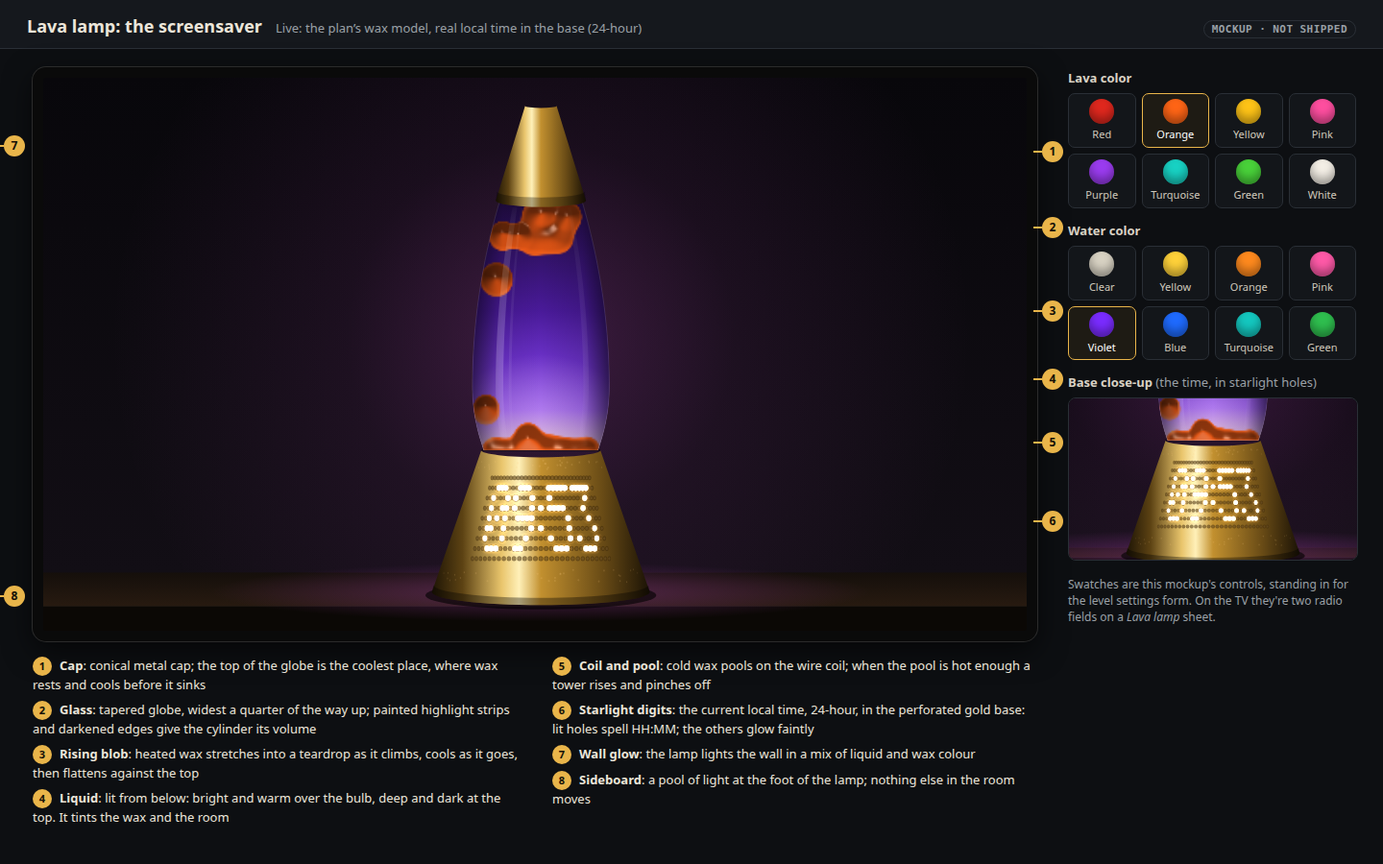
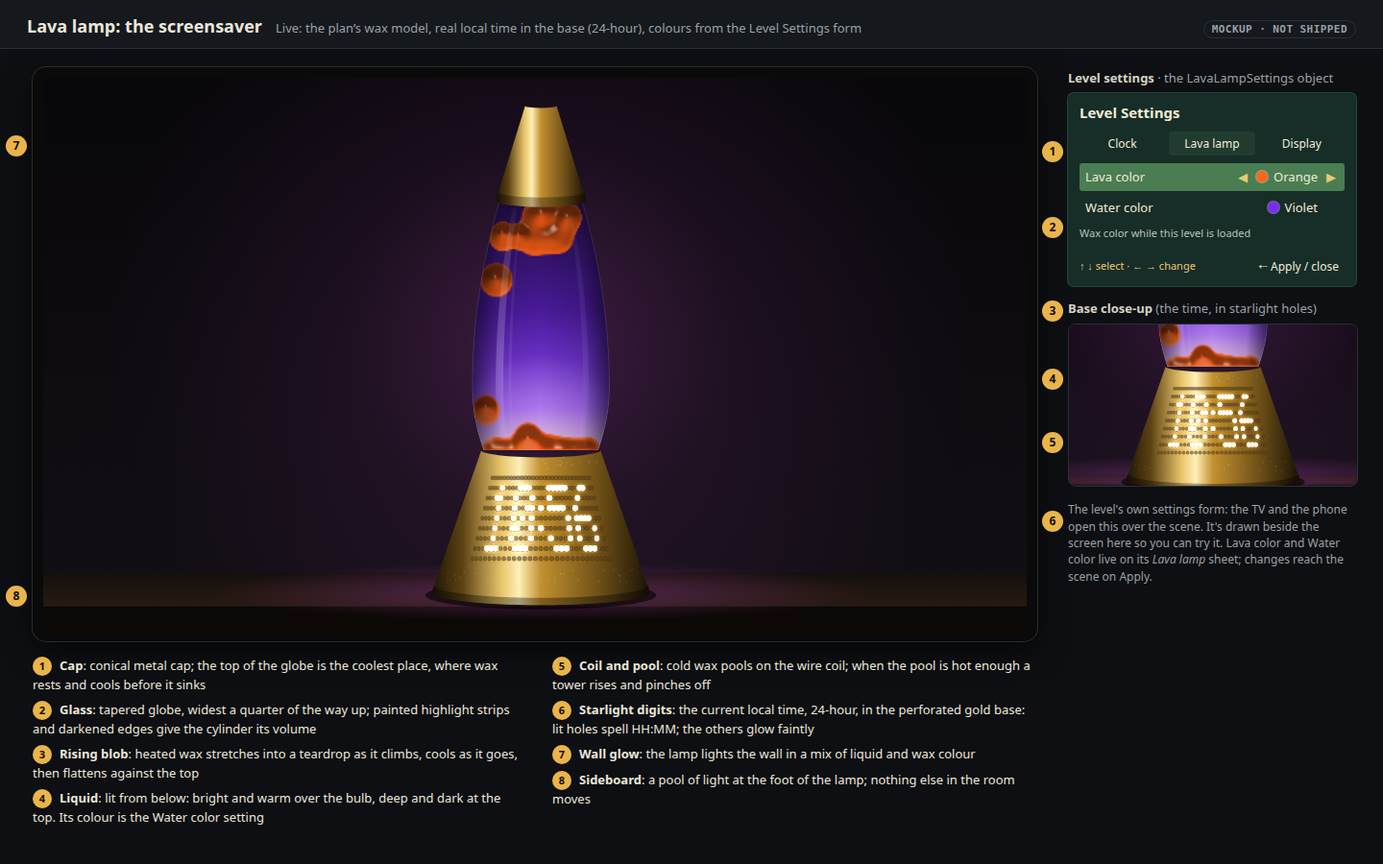
Lava lamp mockup: colours through the Level Settings form; math plan Q1-Q3 accepted
The mockup's colour swatches are replaced by a working replica of the
level's Level Settings form (Clock / Lava lamp / Display sheets,
Lava color and Water color rows, Apply), since the colours belong to
the LavaLampSettings object. The math plan records Will's yes to
Q1-Q3, and TODO gains the ARMv8 32-bit Chromecast build measurement.

Claude-Session: https://claude.ai/code/session_01YEenqPBXQwjNMi8EXwe2or

diff --git a/docs/plans/2026-11-26-lava-lamp/lamp.html b/docs/plans/2026-11-26-lava-lamp/lamp.html
@@ -17,26 +17,43 @@ header .tag{margin-left:auto;font:600 11px ui-monospace,SFMono-Regular,Menlo,mon
 
 #panel .h{font-weight:650;margin:2px 0 6px;font-size:13px;color:#d9d2c4}
 #panel .m{color:var(--muted);font-weight:400}
-.sw{display:grid;grid-template-columns:repeat(4,1fr);gap:6px;margin-bottom:14px}
-.sw button{all:unset;cursor:pointer;display:flex;flex-direction:column;align-items:center;gap:3px;font-size:11px;color:#cfc8ba;padding:5px 0;border-radius:7px;border:1px solid #2a2f36;background:#13161a}
-.sw button i{width:26px;height:26px;border-radius:50%;box-shadow:inset 0 -6px 10px rgba(0,0,0,.35)}
-.sw button[aria-pressed=true]{border-color:var(--accent);background:#1e1b14;color:#fff}
+#form{background:#172d27;color:#f0ead6;border-radius:6px;padding:10px 12px 10px;outline:none;font-family:system-ui,sans-serif;box-shadow:0 0 0 1px #24453b}
+#form:focus{box-shadow:0 0 0 2px #e7c873}
+#form .ttl{font-weight:650;font-size:15px;margin-bottom:8px}
+#form .rail{display:flex;gap:4px;margin-bottom:8px}
+#form .rail div{flex:1;text-align:center;font-size:12px;padding:4px 0;cursor:pointer;border-radius:3px}
+#form .rail div.on{background:#213b31}
+#form .row{display:flex;align-items:center;font-size:13px;padding:5px 6px;margin-bottom:3px;cursor:pointer;border-radius:3px}
+#form .row.f{background:#4a7d52}
+#form .row .v{margin-left:auto;display:flex;align-items:center;gap:6px}
+#form .row .v i{display:inline-block;width:12px;height:12px;border-radius:50%;box-shadow:0 0 0 1px rgba(255,255,255,.35)}
+#form .row button{all:unset;cursor:pointer;width:16px;text-align:center;color:#e7c873;visibility:hidden}
+#form .row.f button{visibility:visible}
+#form .hint{font-size:11px;color:#b9c2bb;min-height:30px;margin-top:4px}
+#form .foot{display:flex;align-items:center;font-size:11px;color:#e7c873;margin-top:2px}
+#form .foot button{all:unset;cursor:pointer;margin-left:auto;color:#f0ead6;font-size:12px;padding:2px 6px;border-radius:3px}
+#form .foot button.dirty{background:#4a7d52}
 .note{margin-top:10px;font-size:12px;color:var(--muted)}
 .mk{position:absolute;width:22px;height:22px;border-radius:50%;background:var(--accent);color:#141006;font:700 12px/22px system-ui;text-align:center}
-.mk::before{content:"";position:absolute;right:22px;top:10px;width:9px;height:2px;background:var(--accent)}
 #legend p{margin:0 0 7px;break-inside:avoid}
 #legend b{display:inline-block;width:20px;height:20px;border-radius:50%;background:var(--accent);color:#141006;text-align:center;font:700 11px/20px system-ui;margin-right:8px}
 </style></head>
-<body><header><h1>Lava lamp: the screensaver</h1><span class="sub">Live: the plan’s wax model, real local time in the base (24-hour)</span><span class="tag">MOCKUP · NOT SHIPPED</span></header>
+<body><header><h1>Lava lamp: the screensaver</h1><span class="sub">Live: the plan’s wax model, real local time in the base (24-hour), colours from the Level Settings form</span><span class="tag">MOCKUP · NOT SHIPPED</span></header>
 
 <div class="tv" style="left:34px;top:70px"><canvas id="tv" width="1024" height="576"></canvas></div>
 <div id="marks"></div>
 <div id="panel" style="position:absolute;left:1112px;top:70px;width:300px">
-  <div class="h">Lava color</div><div class="sw" id="lavaSw"></div>
-  <div class="h">Water color</div><div class="sw" id="waterSw"></div>
-  <div class="h">Base close-up <span class="m">(the time, in starlight holes)</span></div>
+  <div class="h">Level settings <span class="m">· the LavaLampSettings object</span></div>
+  <div id="form" tabindex="0">
+    <div class="ttl">Level Settings</div>
+    <div class="rail" id="rail"></div>
+    <div id="rows"></div>
+    <div class="hint" id="hint"></div>
+    <div class="foot"><span>↑ ↓ select · ← → change</span><button id="apply">⇠ Apply / close</button></div>
+  </div>
+  <div class="h" style="margin-top:14px">Base close-up <span class="m">(the time, in starlight holes)</span></div>
   <canvas id="zoom" width="300" height="168" style="border-radius:8px;border:1px solid #2a2f36"></canvas>
-  <div class="note">Swatches are this mockup's controls, standing in for the level settings form. On the TV they're two radio fields on a <i>Lava lamp</i> sheet.</div>
+  <div class="note">The level's own settings form: the TV and the phone open this over the scene. It's drawn beside the screen here so you can try it. Lava color and Water color live on its <i>Lava lamp</i> sheet; changes reach the scene on Apply.</div>
 </div>
 <div id="legend" style="position:absolute;left:34px;top:684px;width:1046px;columns:2;column-gap:36px;font-size:13px"></div>
 
@@ -224,26 +241,51 @@ function runViews(views,onFrame){
 }
 
 
-const st={lava:DEF_LAVA,water:DEF_WATER};
-const sim=makeSim(7,8);
+// Applied values: what the level is running with. Pending: what the form shows until Apply.
+const applied={lava:DEF_LAVA,water:DEF_WATER,drift:0,fps:0};
+const pending=Object.assign({},applied);
+const SHEETS=[
+ ["Clock",[["drift","Camera drift",["Slow","Off"],"The camera drifts slowly so no pixel sits still on the screen; Off holds it still"]]],
+ ["Lava lamp",[["lava","Lava color",LAVA.map(x=>x[0]),"Wax color while this level is loaded"],["water","Water color",WATER.map(x=>x[0]),"Liquid color while this level is loaded"]]],
+ ["Display",[["fps","Show framerate",["Off","On"],"Show the frames per second overlay at the bottom right"]]]];
+let sheet=1,row=0;
+function renderForm(){
+ document.getElementById('rail').innerHTML=SHEETS.map(([n],i)=>`<div class="${i===sheet?'on':''}" data-i="${i}">${n}</div>`).join('');
+ const fields=SHEETS[sheet][1];
+ document.getElementById('rows').innerHTML=fields.map(([k,label,opts],i)=>{const v=pending[k];const sw=k==='lava'?LAVA[v][1]:k==='water'?WATER[v][1]:null;
+  return `<div class="row ${i===row?'f':''}" data-r="${i}">${label}<span class="v"><button data-d="-1">◀</button>${sw?`<i style="background:${sw}"></i>`:''}${opts[v]}<button data-d="1">▶</button></span></div>`;}).join('');
+ document.getElementById('hint').textContent=fields[row][3];
+ document.getElementById('apply').className=JSON.stringify(pending)!==JSON.stringify(applied)?'dirty':'';
+}
+function change(d){const [k,,opts]=SHEETS[sheet][1][row];pending[k]=(pending[k]+d+opts.length)%opts.length;renderForm();}
+function apply(){Object.assign(applied,pending);renderForm();window.__redraw&&window.__redraw();}
+document.getElementById('rail').onclick=e=>{const i=e.target.dataset.i;if(i!==undefined){sheet=+i;row=0;renderForm();}};
+document.getElementById('rows').onclick=e=>{const b=e.target.closest('button'),r=e.target.closest('.row');if(r){row=+r.dataset.r;}if(b&&r&&r.classList.contains('f'))change(+b.dataset.d);else renderForm();};
+document.getElementById('apply').onclick=apply;
+document.getElementById('form').onkeydown=e=>{const n=SHEETS[sheet][1].length;
+ if(e.key==='ArrowUp'){row=(row+n-1)%n;}else if(e.key==='ArrowDown'){row=(row+1)%n;}
+ else if(e.key==='ArrowLeft'){change(-1);e.preventDefault();return;}else if(e.key==='ArrowRight'){change(1);e.preventDefault();return;}
+ else if(e.key==='Enter'){apply();}else if(e.key==='Tab'){sheet=(sheet+(e.shiftKey?2:1))%3;row=0;}else return;
+ e.preventDefault();renderForm();};
+renderForm();
+const sim=makeSim(7,8);let fpsShown=60,lastT=performance.now();
 const views=[
- {canvas:document.getElementById('tv'),sim,draw:(ctx,W,H,v)=>{v.G=drawScene(ctx,W,H,{sim,lava:st.lava,water:st.water,time:nowHHMM(),cache:v.cache||(v.cache={}),drift:W*0.006*Math.sin(sim.t*2*Math.PI/600)});}},
- {canvas:document.getElementById('zoom'),sim,frozen:true,draw:(ctx,W,H,v)=>{drawScene(ctx,W,H,{sim,lava:st.lava,water:st.water,time:nowHHMM(),cache:v.cache||(v.cache={}),scale:1.25,baseFrac:0.96});}}];
-function swatches(id,list,key){const el=document.getElementById(id);list.forEach(([n,h],i)=>{const b=document.createElement('button');b.innerHTML=`<i style="background:${h}"></i>${n}`;b.onclick=()=>{st[key]=i;sync();};el.appendChild(b);});}
-function sync(){[...document.querySelectorAll('#lavaSw button')].forEach((b,i)=>b.setAttribute('aria-pressed',i===st.lava));[...document.querySelectorAll('#waterSw button')].forEach((b,i)=>b.setAttribute('aria-pressed',i===st.water));window.__redraw&&window.__redraw();}
-swatches('lavaSw',LAVA,'lava');swatches('waterSw',WATER,'water');sync();
+ {canvas:document.getElementById('tv'),sim,draw:(ctx,W,H,v)=>{const now=performance.now(),dt=now-lastT;lastT=now;if(dt>0&&dt<200)fpsShown=fpsShown*0.95+0.05*(1000/dt);
+   v.G=drawScene(ctx,W,H,{sim,lava:applied.lava,water:applied.water,time:nowHHMM(),cache:v.cache||(v.cache={}),drift:applied.drift?0:W*0.006*Math.sin(sim.t*2*Math.PI/600)});
+   if(applied.fps){ctx.font='13px ui-monospace,monospace';const t=fpsShown.toFixed(1),w=ctx.measureText(t).width;ctx.fillStyle='rgba(0,0,0,.6)';ctx.fillRect(W-w-22,H-28,w+12,19);ctx.fillStyle='#fff';ctx.fillText(t,W-w-16,H-14);}}},
+ {canvas:document.getElementById('zoom'),sim,frozen:true,draw:(ctx,W,H,v)=>{drawScene(ctx,W,H,{sim,lava:applied.lava,water:applied.water,time:nowHHMM(),cache:v.cache||(v.cache={}),scale:1.25,baseFrac:0.96});}}];
 const LEG=[["Cap","conical metal cap; the top of the globe is the coolest place, where wax rests and cools before it sinks"],
 ["Glass","tapered globe, widest a quarter of the way up; painted highlight strips and darkened edges give the cylinder its volume"],
 ["Rising blob","heated wax stretches into a teardrop as it climbs, cools as it goes, then flattens against the top"],
-["Liquid","lit from below: bright and warm over the bulb, deep and dark at the top. It tints the wax and the room"],
+["Liquid","lit from below: bright and warm over the bulb, deep and dark at the top. Its colour is the Water color setting"],
 ["Coil and pool","cold wax pools on the wire coil; when the pool is hot enough a tower rises and pinches off"],
 ["Starlight digits","the current local time, 24-hour, in the perforated gold base: lit holes spell HH:MM; the others glow faintly"],
 ["Wall glow","the lamp lights the wall in a mix of liquid and wax colour"],
 ["Sideboard","a pool of light at the foot of the lamp; nothing else in the room moves"]];
 document.getElementById('legend').innerHTML=LEG.map(([t,d],i)=>`<p><b>${i+1}</b><strong>${t}</strong>: ${d}</p>`).join('');
 let placed=false;
-runViews(views,()=>{if(placed||!views[0].G)return;placed=true;const G=views[0].G,ox=45,oy=81,x=1085;
+runViews(views,()=>{if(placed||!views[0].G)return;placed=true;const G=views[0].G,oy=81,x=1085;
  const ys=[G.gt-G.hc*0.5,G.gt+G.Hg*0.12,G.gb-G.Hg*0.55,G.gb-G.Hg*0.28,G.gb-G.Hg*0.03,G.baseY-G.hb*0.5];
  const m=document.getElementById('marks');ys.forEach((y,i)=>{const d=document.createElement('div');d.className='mk';d.style.left=x+'px';d.style.top=(oy+y-11)+'px';d.textContent=i+1;m.appendChild(d);});
- [[G.gb-G.Hg*1.2,7],[G.baseY+4,8]].forEach(([y,n])=>{const d=document.createElement('div');d.className='mk';d.style.left='4px';d.style.top=(oy+y-11)+'px';d.textContent=n;d.style.setProperty('--x','0');m.appendChild(d);});});
+ [[G.gb-G.Hg*1.2,7],[G.baseY+4,8]].forEach(([y,n])=>{const d=document.createElement('div');d.className='mk';d.style.left='6px';d.style.top=(oy+y-11)+'px';d.textContent=n;m.appendChild(d);});});
 </script></body></html>

diff --git a/docs/plans/2026-11-26-lava-lamp/build_mockups.py b/docs/plans/2026-11-26-lava-lamp/build_mockups.py
@@ -233,50 +233,92 @@ LAMP_BODY = """
 <div class="tv" style="left:34px;top:70px"><canvas id="tv" width="1024" height="576"></canvas></div>
 <div id="marks"></div>
 <div id="panel" style="position:absolute;left:1112px;top:70px;width:300px">
-  <div class="h">Lava color</div><div class="sw" id="lavaSw"></div>
-  <div class="h">Water color</div><div class="sw" id="waterSw"></div>
-  <div class="h">Base close-up <span class="m">(the time, in starlight holes)</span></div>
+  <div class="h">Level settings <span class="m">· the LavaLampSettings object</span></div>
+  <div id="form" tabindex="0">
+    <div class="ttl">Level Settings</div>
+    <div class="rail" id="rail"></div>
+    <div id="rows"></div>
+    <div class="hint" id="hint"></div>
+    <div class="foot"><span>↑ ↓ select · ← → change</span><button id="apply">⇠ Apply / close</button></div>
+  </div>
+  <div class="h" style="margin-top:14px">Base close-up <span class="m">(the time, in starlight holes)</span></div>
   <canvas id="zoom" width="300" height="168" style="border-radius:8px;border:1px solid #2a2f36"></canvas>
-  <div class="note">Swatches are this mockup's controls, standing in for the level settings form. On the TV they're two radio fields on a <i>Lava lamp</i> sheet.</div>
+  <div class="note">The level's own settings form: the TV and the phone open this over the scene. It's drawn beside the screen here so you can try it. Lava color and Water color live on its <i>Lava lamp</i> sheet; changes reach the scene on Apply.</div>
 </div>
 <div id="legend" style="position:absolute;left:34px;top:684px;width:1046px;columns:2;column-gap:36px;font-size:13px"></div>
 """
 LAMP_CSS = """
 #panel .h{font-weight:650;margin:2px 0 6px;font-size:13px;color:#d9d2c4}
 #panel .m{color:var(--muted);font-weight:400}
-.sw{display:grid;grid-template-columns:repeat(4,1fr);gap:6px;margin-bottom:14px}
-.sw button{all:unset;cursor:pointer;display:flex;flex-direction:column;align-items:center;gap:3px;font-size:11px;color:#cfc8ba;padding:5px 0;border-radius:7px;border:1px solid #2a2f36;background:#13161a}
-.sw button i{width:26px;height:26px;border-radius:50%;box-shadow:inset 0 -6px 10px rgba(0,0,0,.35)}
-.sw button[aria-pressed=true]{border-color:var(--accent);background:#1e1b14;color:#fff}
+#form{background:#172d27;color:#f0ead6;border-radius:6px;padding:10px 12px 10px;outline:none;font-family:system-ui,sans-serif;box-shadow:0 0 0 1px #24453b}
+#form:focus{box-shadow:0 0 0 2px #e7c873}
+#form .ttl{font-weight:650;font-size:15px;margin-bottom:8px}
+#form .rail{display:flex;gap:4px;margin-bottom:8px}
+#form .rail div{flex:1;text-align:center;font-size:12px;padding:4px 0;cursor:pointer;border-radius:3px}
+#form .rail div.on{background:#213b31}
+#form .row{display:flex;align-items:center;font-size:13px;padding:5px 6px;margin-bottom:3px;cursor:pointer;border-radius:3px}
+#form .row.f{background:#4a7d52}
+#form .row .v{margin-left:auto;display:flex;align-items:center;gap:6px}
+#form .row .v i{display:inline-block;width:12px;height:12px;border-radius:50%;box-shadow:0 0 0 1px rgba(255,255,255,.35)}
+#form .row button{all:unset;cursor:pointer;width:16px;text-align:center;color:#e7c873;visibility:hidden}
+#form .row.f button{visibility:visible}
+#form .hint{font-size:11px;color:#b9c2bb;min-height:30px;margin-top:4px}
+#form .foot{display:flex;align-items:center;font-size:11px;color:#e7c873;margin-top:2px}
+#form .foot button{all:unset;cursor:pointer;margin-left:auto;color:#f0ead6;font-size:12px;padding:2px 6px;border-radius:3px}
+#form .foot button.dirty{background:#4a7d52}
 .note{margin-top:10px;font-size:12px;color:var(--muted)}
 .mk{position:absolute;width:22px;height:22px;border-radius:50%;background:var(--accent);color:#141006;font:700 12px/22px system-ui;text-align:center}
-.mk::before{content:"";position:absolute;right:22px;top:10px;width:9px;height:2px;background:var(--accent)}
 #legend p{margin:0 0 7px;break-inside:avoid}
 #legend b{display:inline-block;width:20px;height:20px;border-radius:50%;background:var(--accent);color:#141006;text-align:center;font:700 11px/20px system-ui;margin-right:8px}
 """
 LAMP_SCRIPT = r"""
-const st={lava:DEF_LAVA,water:DEF_WATER};
-const sim=makeSim(7,8);
+// Applied values: what the level is running with. Pending: what the form shows until Apply.
+const applied={lava:DEF_LAVA,water:DEF_WATER,drift:0,fps:0};
+const pending=Object.assign({},applied);
+const SHEETS=[
+ ["Clock",[["drift","Camera drift",["Slow","Off"],"The camera drifts slowly so no pixel sits still on the screen; Off holds it still"]]],
+ ["Lava lamp",[["lava","Lava color",LAVA.map(x=>x[0]),"Wax color while this level is loaded"],["water","Water color",WATER.map(x=>x[0]),"Liquid color while this level is loaded"]]],
+ ["Display",[["fps","Show framerate",["Off","On"],"Show the frames per second overlay at the bottom right"]]]];
+let sheet=1,row=0;
+function renderForm(){
+ document.getElementById('rail').innerHTML=SHEETS.map(([n],i)=>`<div class="${i===sheet?'on':''}" data-i="${i}">${n}</div>`).join('');
+ const fields=SHEETS[sheet][1];
+ document.getElementById('rows').innerHTML=fields.map(([k,label,opts],i)=>{const v=pending[k];const sw=k==='lava'?LAVA[v][1]:k==='water'?WATER[v][1]:null;
+  return `<div class="row ${i===row?'f':''}" data-r="${i}">${label}<span class="v"><button data-d="-1">◀</button>${sw?`<i style="background:${sw}"></i>`:''}${opts[v]}<button data-d="1">▶</button></span></div>`;}).join('');
+ document.getElementById('hint').textContent=fields[row][3];
+ document.getElementById('apply').className=JSON.stringify(pending)!==JSON.stringify(applied)?'dirty':'';
+}
+function change(d){const [k,,opts]=SHEETS[sheet][1][row];pending[k]=(pending[k]+d+opts.length)%opts.length;renderForm();}
+function apply(){Object.assign(applied,pending);renderForm();window.__redraw&&window.__redraw();}
+document.getElementById('rail').onclick=e=>{const i=e.target.dataset.i;if(i!==undefined){sheet=+i;row=0;renderForm();}};
+document.getElementById('rows').onclick=e=>{const b=e.target.closest('button'),r=e.target.closest('.row');if(r){row=+r.dataset.r;}if(b&&r&&r.classList.contains('f'))change(+b.dataset.d);else renderForm();};
+document.getElementById('apply').onclick=apply;
+document.getElementById('form').onkeydown=e=>{const n=SHEETS[sheet][1].length;
+ if(e.key==='ArrowUp'){row=(row+n-1)%n;}else if(e.key==='ArrowDown'){row=(row+1)%n;}
+ else if(e.key==='ArrowLeft'){change(-1);e.preventDefault();return;}else if(e.key==='ArrowRight'){change(1);e.preventDefault();return;}
+ else if(e.key==='Enter'){apply();}else if(e.key==='Tab'){sheet=(sheet+(e.shiftKey?2:1))%3;row=0;}else return;
+ e.preventDefault();renderForm();};
+renderForm();
+const sim=makeSim(7,8);let fpsShown=60,lastT=performance.now();
 const views=[
- {canvas:document.getElementById('tv'),sim,draw:(ctx,W,H,v)=>{v.G=drawScene(ctx,W,H,{sim,lava:st.lava,water:st.water,time:nowHHMM(),cache:v.cache||(v.cache={}),drift:W*0.006*Math.sin(sim.t*2*Math.PI/600)});}},
- {canvas:document.getElementById('zoom'),sim,frozen:true,draw:(ctx,W,H,v)=>{drawScene(ctx,W,H,{sim,lava:st.lava,water:st.water,time:nowHHMM(),cache:v.cache||(v.cache={}),scale:1.25,baseFrac:0.96});}}];
-function swatches(id,list,key){const el=document.getElementById(id);list.forEach(([n,h],i)=>{const b=document.createElement('button');b.innerHTML=`<i style="background:${h}"></i>${n}`;b.onclick=()=>{st[key]=i;sync();};el.appendChild(b);});}
-function sync(){[...document.querySelectorAll('#lavaSw button')].forEach((b,i)=>b.setAttribute('aria-pressed',i===st.lava));[...document.querySelectorAll('#waterSw button')].forEach((b,i)=>b.setAttribute('aria-pressed',i===st.water));window.__redraw&&window.__redraw();}
-swatches('lavaSw',LAVA,'lava');swatches('waterSw',WATER,'water');sync();
+ {canvas:document.getElementById('tv'),sim,draw:(ctx,W,H,v)=>{const now=performance.now(),dt=now-lastT;lastT=now;if(dt>0&&dt<200)fpsShown=fpsShown*0.95+0.05*(1000/dt);
+   v.G=drawScene(ctx,W,H,{sim,lava:applied.lava,water:applied.water,time:nowHHMM(),cache:v.cache||(v.cache={}),drift:applied.drift?0:W*0.006*Math.sin(sim.t*2*Math.PI/600)});
+   if(applied.fps){ctx.font='13px ui-monospace,monospace';const t=fpsShown.toFixed(1),w=ctx.measureText(t).width;ctx.fillStyle='rgba(0,0,0,.6)';ctx.fillRect(W-w-22,H-28,w+12,19);ctx.fillStyle='#fff';ctx.fillText(t,W-w-16,H-14);}}},
+ {canvas:document.getElementById('zoom'),sim,frozen:true,draw:(ctx,W,H,v)=>{drawScene(ctx,W,H,{sim,lava:applied.lava,water:applied.water,time:nowHHMM(),cache:v.cache||(v.cache={}),scale:1.25,baseFrac:0.96});}}];
 const LEG=[["Cap","conical metal cap; the top of the globe is the coolest place, where wax rests and cools before it sinks"],
 ["Glass","tapered globe, widest a quarter of the way up; painted highlight strips and darkened edges give the cylinder its volume"],
 ["Rising blob","heated wax stretches into a teardrop as it climbs, cools as it goes, then flattens against the top"],
-["Liquid","lit from below: bright and warm over the bulb, deep and dark at the top. It tints the wax and the room"],
+["Liquid","lit from below: bright and warm over the bulb, deep and dark at the top. Its colour is the Water color setting"],
 ["Coil and pool","cold wax pools on the wire coil; when the pool is hot enough a tower rises and pinches off"],
 ["Starlight digits","the current local time, 24-hour, in the perforated gold base: lit holes spell HH:MM; the others glow faintly"],
 ["Wall glow","the lamp lights the wall in a mix of liquid and wax colour"],
 ["Sideboard","a pool of light at the foot of the lamp; nothing else in the room moves"]];
 document.getElementById('legend').innerHTML=LEG.map(([t,d],i)=>`<p><b>${i+1}</b><strong>${t}</strong>: ${d}</p>`).join('');
 let placed=false;
-runViews(views,()=>{if(placed||!views[0].G)return;placed=true;const G=views[0].G,ox=45,oy=81,x=1085;
+runViews(views,()=>{if(placed||!views[0].G)return;placed=true;const G=views[0].G,oy=81,x=1085;
  const ys=[G.gt-G.hc*0.5,G.gt+G.Hg*0.12,G.gb-G.Hg*0.55,G.gb-G.Hg*0.28,G.gb-G.Hg*0.03,G.baseY-G.hb*0.5];
  const m=document.getElementById('marks');ys.forEach((y,i)=>{const d=document.createElement('div');d.className='mk';d.style.left=x+'px';d.style.top=(oy+y-11)+'px';d.textContent=i+1;m.appendChild(d);});
- [[G.gb-G.Hg*1.2,7],[G.baseY+4,8]].forEach(([y,n])=>{const d=document.createElement('div');d.className='mk';d.style.left='4px';d.style.top=(oy+y-11)+'px';d.textContent=n;d.style.setProperty('--x','0');m.appendChild(d);});});
+ [[G.gb-G.Hg*1.2,7],[G.baseY+4,8]].forEach(([y,n])=>{const d=document.createElement('div');d.className='mk';d.style.left='6px';d.style.top=(oy+y-11)+'px';d.textContent=n;m.appendChild(d);});});
 """
 
 # ------------------------------------------------------- time-options.html
@@ -574,7 +616,7 @@ def main():
     import json
     opts = json.dumps([[n, a, b, c, d, e] for n, a, b, c, d, e in OPTIONS])
     pages = {
-        'lamp.html': page('Lava lamp: the screensaver', 'Live: the plan’s wax model, real local time in the base (24-hour)', LAMP_BODY, LAMP_SCRIPT, LAMP_CSS),
+        'lamp.html': page('Lava lamp: the screensaver', 'Live: the plan’s wax model, real local time in the base (24-hour), colours from the Level Settings form', LAMP_BODY, LAMP_SCRIPT, LAMP_CSS),
         'time-options.html': page('Twenty ways to show the time', '★ recommended · ●●●●● legibility from a sofa · S/M build size', '<div id="grid"></div>', OPT_SCRIPT.replace('__OPTS__', opts), OPT_CSS),
         'palettes.html': page('Lava × water: all 64 pairings', 'The two new settings, every combination, at 21:47', '<div id="pal"></div><div id="key"></div>', PAL_SCRIPT, PAL_CSS),
         'settings.html': page('Level settings: lava and water color', 'TV overlay, result after Apply, phone form', SET_BODY, SET_SCRIPT, SET_CSS),

diff --git a/docs/plans/2026-11-26-forth-math-words.md b/docs/plans/2026-11-26-forth-math-words.md
@@ -1,6 +1,6 @@
 # Forth math words, part 2: exponentials, logarithms, rounding and the hardware
 
-**Status: plan for review, 2026‑11‑26.** Nothing is built. This plan follows the [trig words plan](2026-11-21-forth-trig-words.md): the same table, the same `libm` policy, the same loud refusals and the same three test layers. It grew out of the [lava lamp plan](2026-11-26-lava-lamp.md), which needs `exp`, `expm1`, `cbrt` and `floor`. Will's direction (2026‑11‑26):
+**Status: approved 2026‑11‑26; implementation started.** Will: "yes to all 3 math" (Q1–Q3 accepted at the recommendations), then "implement math plan". This plan follows the [trig words plan](2026-11-21-forth-trig-words.md): the same table, the same `libm` policy, the same loud refusals and the same three test layers. It grew out of the [lava lamp plan](2026-11-26-lava-lamp.md), which needs `exp`, `expm1`, `cbrt` and `floor`. Will's direction (2026‑11‑26):
 
 > "we could add exp to the engine … we already added trig functions … exp, ln, log, etc would be natural next steps … consider other functions to add? what are the functions getting added?"
 
@@ -183,9 +183,9 @@ sequenceDiagram
 
 | # | Question | My recommendation |
 |---|---|---|
-| Q1 | Add group B (`popcount`, `clz`, `ctz`) now, with no level needing them yet? | **Yes**: three table rows, and the hardware does them in one instruction almost everywhere |
-| Q2 | Open a separate TODO to measure the Chromecasts on an ARMv8 32-bit build (`vrint`, `vfma`, and whatever else the compiler finds in Jolt and the deformers)? | **Yes**, as a T4 measurement: it could be free frame rate on our slowest device, but it drops true ARMv7 devices |
-| Q3 | Run the agreement check (verification 5) on the devices too, not only in the container? | **Yes**: it is the only evidence that the PC's reference results are what the Chromecast computes |
+| Q1 | Add group B (`popcount`, `clz`, `ctz`) now, with no level needing them yet? | ~~**Yes**: three table rows, and the hardware does them in one instruction almost everywhere~~ **Accepted.** |
+| Q2 | Open a separate TODO to measure the Chromecasts on an ARMv8 32-bit build (`vrint`, `vfma`, and whatever else the compiler finds in Jolt and the deformers)? | ~~**Yes**, as a T4 measurement~~ **Accepted**: TODO item added. |
+| Q3 | Run the agreement check (verification 5) on the devices too, not only in the container? | ~~**Yes**~~ **Accepted**: verification 5 runs on the Pixel, cast1 and cast2. |
 
 ## Phases
 

diff --git a/TODO.md b/TODO.md
@@ -10,6 +10,8 @@
 
 - [T3] **Forth math words, part 2: exponentials, logarithms, rounding, integer bits.** 27 words in three groups: exact (`floor` `ceil` `trunc` `round` `roundeven` `fma` `copysign` `fmod`), bits (`popcount` `clz` `ctz`), libm (`exp` `expm1` `exp2` `pow` `ln` `log1p` `log2` `log10` `cbrt` `hypot`, six hyperbolics); custom syscalls 82–108; hardware matrix per target; replaces four levels' hand-rolled floors. T3: the trig plan's settled pattern, but six files, three test layers and a device agreement run. [Plan](docs/plans/2026-11-26-forth-math-words.md)
 
+- [T4] **Measure an ARMv8 32-bit build for the Chromecasts.** Both Chromecasts have ARMv8 cores (Cortex-A35, A55) but run our `armeabi-v7a` build (ARMv7 VFPv3-D16 + NEON), so `vrint` rounding and `vfma` never reach Jolt, the deformers or the Forth words. Build a variant with `-march=armv8-a -mfpu=neon-fp-armv8`, compare FPS on cast1 and cast2, and decide; it drops true ARMv7 devices. T4: build-wide, with compatibility judgment. [Math plan, Q2](docs/plans/2026-11-26-forth-math-words.md)
+
 - [T3] **Lava lamp A3 poster (Phase P).** Research document first, then the poster pipeline: physics, wax properties, history, six patents with links and QR codes, Forth, with chips on every claim. Follows the level (needs the shipped Cycles render). [Plan](docs/plans/2026-11-26-lava-lamp.md#the-a3-poster)
 
 - [T3] **Persist level settings across launches.** The Discus palette currently lasts only while the level is loaded, by design for now; the Dream starts with its default. Follow up by saving level settings and applying the saved values to both the playable level and its screensaver, with relaunch and Dream verification. [Discus palette plan](docs/plans/2026-11-23-discus-palette-selector.md)

diff --git a/docs/plans/2026-11-26-lava-lamp.md b/docs/plans/2026-11-26-lava-lamp.md
@@ -10,9 +10,9 @@
 
 The answers are in [Lamp look](#the-look) and [D2–D5](#decisions); [twenty time displays](#twenty-ways-to-show-the-time); [the settings](#the-settings-lava-color-and-water-color); [the poster](#the-a3-poster); [four ways to move the wax](#how-the-wax-moves) (D6); and [the math words being added](2026-11-26-forth-math-words.md) (E2, now its own plan: 27 words).
 
-[![The mockup: a gold Astro-style lava lamp on a dark sideboard, orange wax in violet liquid, the time 21:47 spelt in glowing holes in the base; colour swatches and a base close-up on the right](2026-11-26-lava-lamp/lamp.png)](2026-11-26-lava-lamp/lamp.html)
+[![The mockup: a gold Astro-style lava lamp on a dark sideboard, orange wax in violet liquid, the time 21:47 spelt in glowing holes in the base; the Level Settings form and a base close-up on the right](2026-11-26-lava-lamp/lamp.png)](2026-11-26-lava-lamp/lamp.html)
 
-*The live mockup runs this plan's wax model (below) and shows your computer's local time in the base. Click the swatches to change the lava and water colours.*
+*The live mockup runs this plan's wax model (below) and shows your computer's local time in the base. The colours come from the level settings object, as in the level: its Level Settings form is drawn beside the screen (on the TV and the phone it opens over the scene). Pick the Lava lamp sheet, a row, ◀ ▶, then Apply.*
 
 ## What is there now
 

diff --git a/docs/plans/.history/2026-11-26-lava-lamp.md b/docs/plans/.history/2026-11-26-lava-lamp.md
@@ -1,8 +1,14 @@
 | Date | Change |
 |------|--------|
+| [2026-11-26](https://github.com/wbniv/WorldFoundry/commit/a7e37975d) | Plan: Forth math words part 2, with a hardware support matrix |
 | [2026-11-26](https://github.com/wbniv/WorldFoundry/commit/34e948923) | Plan: real lava lamp screensaver with the time in its base |
 
 <!--history-meta v1
+a7e37975d	author	Will Norris
+a7e37975d	added	4
+a7e37975d	deleted	32
+a7e37975d	files	1
+a7e37975d	body	Splits the lava lamp plan's E2 into its own plan: 27 words in three\ngroups (exact: floor ceil trunc round roundeven fma copysign fmod;\ninteger bits: popcount clz ctz; libm: exp expm1 exp2 pow ln log1p log2\nlog10 cbrt hypot and the hyperbolics). Marks which map to one hardware\ninstruction on each target (x86-64 as built, AArch64, the Chromecasts'\narmeabi-v7a build, ARMv8 32-bit, WebAssembly) and why it matters: the\nIEEE 754 required operations agree bit for bit everywhere. Phase 4\nreplaces four levels' hand-rolled floor loops.\n\nCo-Authored-By: Claude Opus 5.5 <noreply@anthropic.com>\nClaude-Session: https://claude.ai/code/session_01YEenqPBXQwjNMi8EXwe2or
 34e948923	author	Will Norris
 34e948923	added	473
 34e948923	deleted	0

diff --git a/docs/plans/.history/2026-11-26-forth-math-words.md b/docs/plans/.history/2026-11-26-forth-math-words.md
@@ -1,0 +1,11 @@
+| Date | Change |
+|------|--------|
+| [2026-11-26](https://github.com/wbniv/WorldFoundry/commit/a7e37975d) | Plan: Forth math words part 2, with a hardware support matrix |
+
+<!--history-meta v1
+a7e37975d	author	Will Norris
+a7e37975d	added	262
+a7e37975d	deleted	0
+a7e37975d	files	1
+a7e37975d	body	Splits the lava lamp plan's E2 into its own plan: 27 words in three\ngroups (exact: floor ceil trunc round roundeven fma copysign fmod;\ninteger bits: popcount clz ctz; libm: exp expm1 exp2 pow ln log1p log2\nlog10 cbrt hypot and the hyperbolics). Marks which map to one hardware\ninstruction on each target (x86-64 as built, AArch64, the Chromecasts'\narmeabi-v7a build, ARMv8 32-bit, WebAssembly) and why it matters: the\nIEEE 754 required operations agree bit for bit everywhere. Phase 4\nreplaces four levels' hand-rolled floor loops.\n\nCo-Authored-By: Claude Opus 5.5 <noreply@anthropic.com>\nClaude-Session: https://claude.ai/code/session_01YEenqPBXQwjNMi8EXwe2or
+-->
